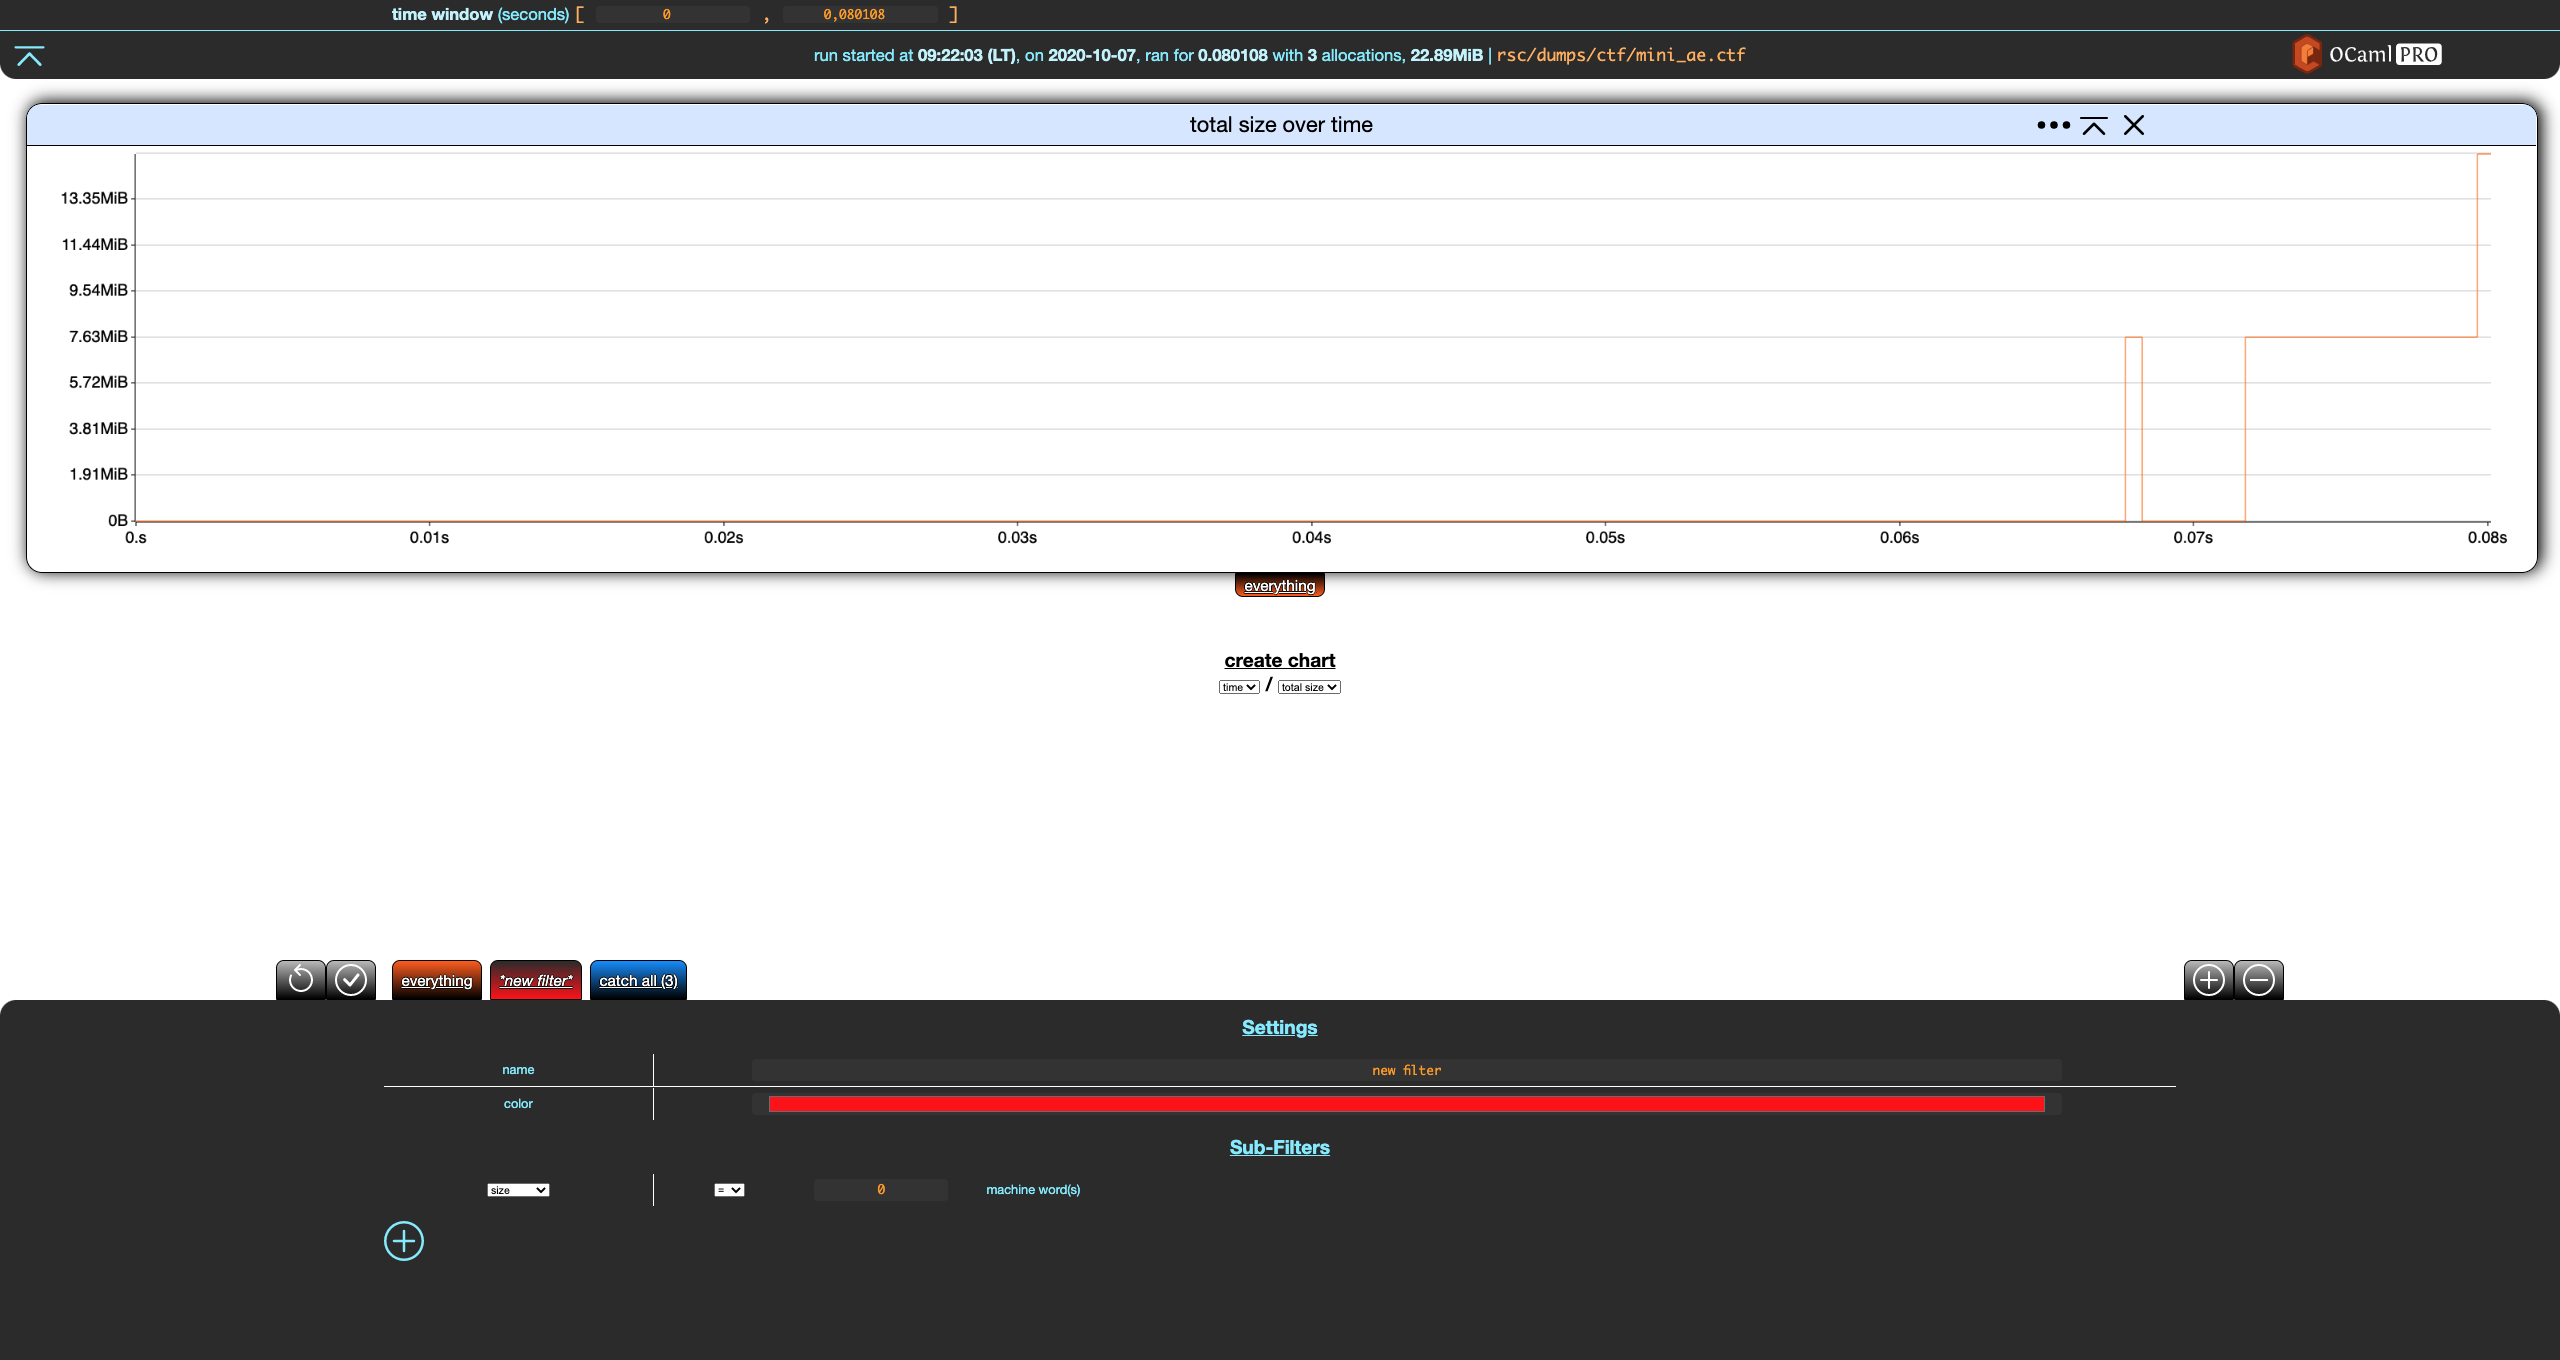
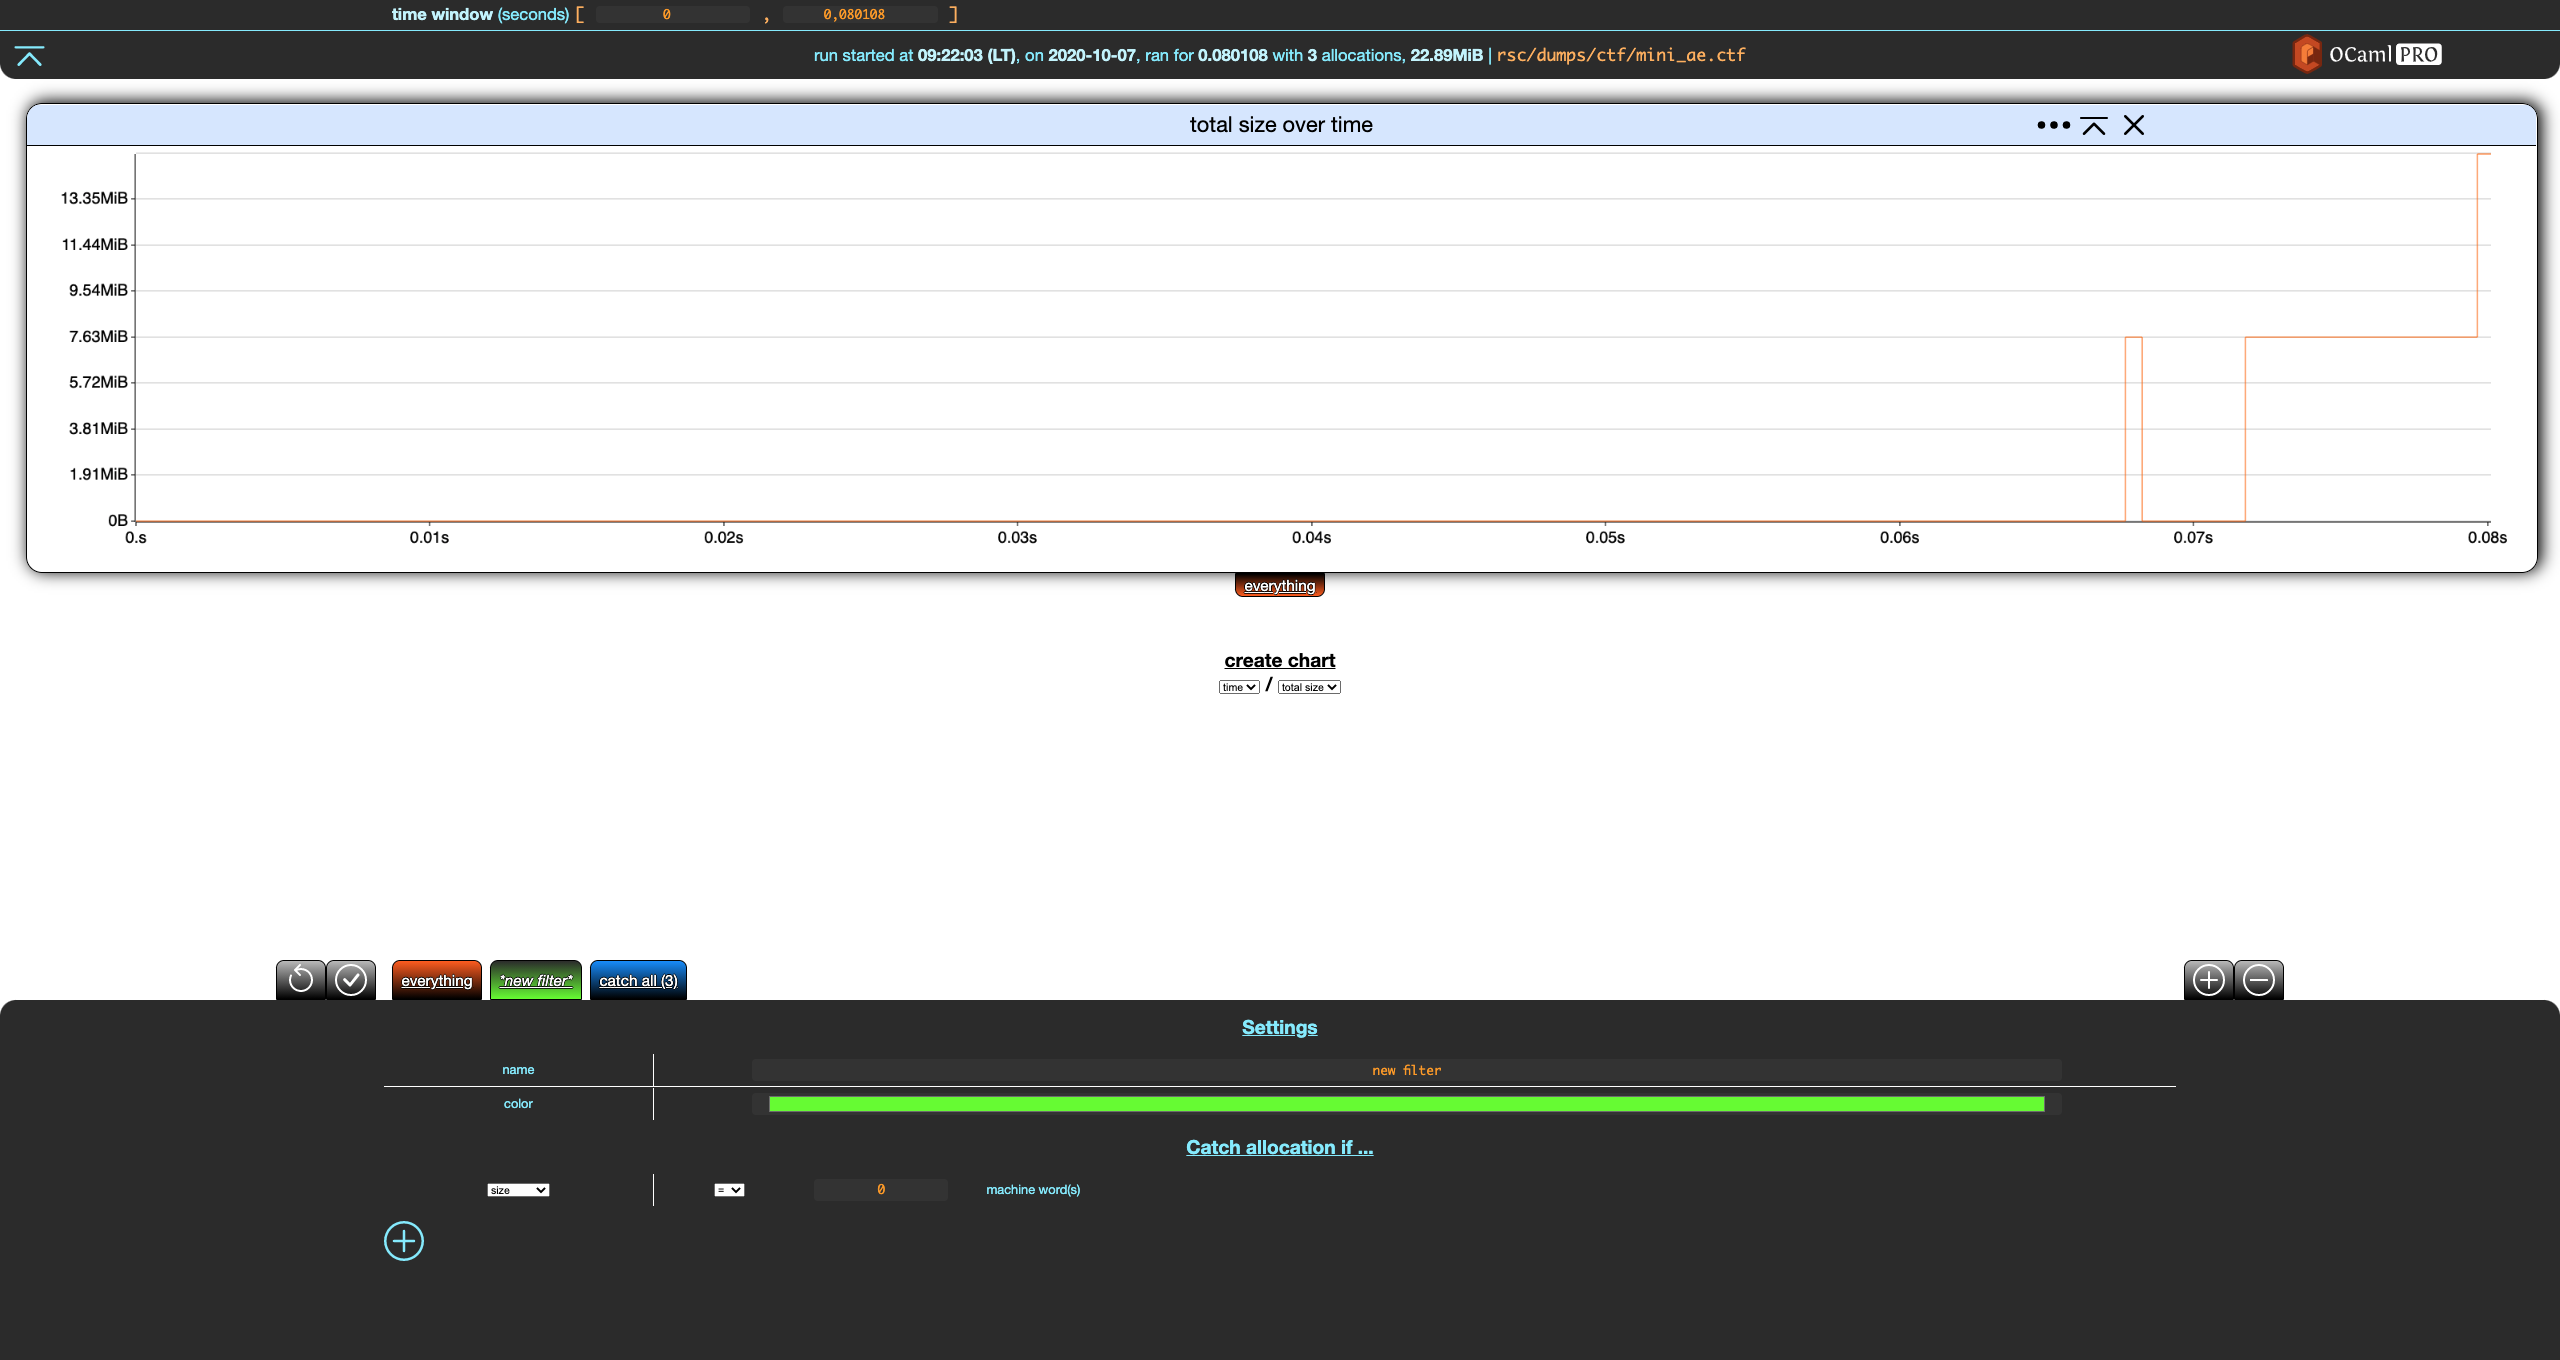
minimal tutorial

Changed region(s): [[0.2812, 0.8029, 0.8125, 0.8647], [0.1875, 0.7103, 0.25, 0.7412]]

diff --git a/rsc/docs/mini_tutorial/src/basics.md b/rsc/docs/mini_tutorial/src/basics.md
@@ -3,10 +3,7 @@
 Our running example in this section will be `rsc/dumps/mini_ae.ctf`:
 
 ```bash
-❯ ls rsc/dumps/ctf/mini_ae.ctf
-rsc/dumps/ctf/mini_ae.ctf
-
-❯ memthol rsc/dumps/ctf/mini_ae.ctf
+❯ memthol --filter_gen none rsc/dumps/ctf/mini_ae.ctf
 |===| Starting
 | url: http://localhost:7878
 | target: `rsc/dumps/ctf/mini_ae.ctf`
@@ -14,14 +11,23 @@ rsc/dumps/ctf/mini_ae.ctf
 
 ```
 
+Notice the odd `--filter_gen none` passed to memthol. Ignore it for now, it will be discussed [later
+in this section][filter gen].
+
 Once memthol is running, `http://localhost:7878/` (here) will lead you to memthol's BUI, which
 should look something like this:
 
 ![](basics_pics/default.png)
 
+\
+\
+
 Click on the orange **everything** tab at the bottom left of the screen.
 
 ![](basics_pics/three_parts.png)
+
+\
+\
 
 Memthol's interface is split in three parts:
 
@@ -44,74 +50,137 @@ in the footer.
 
 ![](basics_pics/everything_name_color.png)
 
+\
+\
+
 Notice that when a filter is modified, two buttons appear in the top-left part of the footer. The
 first reverts the changes while the second one saves them. Let's save these changes.
 
 ![](basics_pics/everything_saved.png)
 
+\
+\
+
 The **everything** filter always contains all allocations in the memory dump. It cannot be changed
 besides the cosmetic changes we just did. These changes are reverted in the rest of the section.
+
+
+## Custom Filters
 
 Let's create a new filter using the `+` add button in the top-right part of the footer.
 
 ![](basics_pics/new_filter.png)
 
-Notice that, unlike **everything**, the settings for our new filter have a `Sub-filter` (empty)
-section with a `+` add button. Let's click on that.
+\
+\
+
+Notice that, unlike **everything**, the settings for our new filter have a **Catch allocation if
+...** (empty) section with a `+` add button. Let's click on that.
 
 ![](basics_pics/new_sub_filter.png)
 
-The (only) graph shown here displays the sum of the sizes of the allocations (in bytes) over time.
+\
+\
+
+This adds a criterion to our filter. Let's modify it so that the our filter catches everything of size greater than zero machine words, rename the filter, and save these changes.
+
+![](basics_pics/new_filter_1.png)
+
+The tab for our filter now shows **(3)** next to its name, indicating that this filter catches 3
+allocations, which is all the allocations of the (tiny) dump.
 
 \
 \
 
-At the bottom is the so-called *filter footer*, which is collapsed by default. It only features one
-filter right now, the *everything* filter. Clicking on it expands its options and allows for some
-(cosmetic) customization.
+Now, create a new filter and modify it so that it catches allocations made in file `weak.ml`. This requires
 
-![](basics_pics/default_everything_expanded.png)
+- creating a filter,
 
-\
-\
+- adding a criterion to that filter,
 
-Notice the *add* button (that looks like a `+`) in the top-right corner of the footer. We will
-discuss it later. For now, let's change the name and color of this filter.
+- switching it from `size` to `callstack`
 
-![](basics_pics/default_everything_edited.png)
+- removing the trailing `**` (anything) by erasing it,
 
-> **NB:** the color palette is provided by the Operating System, the one shown here is provided by
-> macos. It will look different on other systems.
+- write `weak.ml` as the last file that should appear in the callstack.
 
-\
-\
+After saving it, you should get the following.
 
-Nothing changed in the graph, but two buttons have appeared in the top-right corner of the footer. A
-*save* button (floppy disk) and an *undo* button (arrow going backwards).
-
-Also, the *everything* tab changed to our new name, *"exhaustive"* surrounded by `*` characters.
-This indicates that the changes we made have not been applied. We can undo the changes in the filter
-footer with the undo button, or save/commit/apply them with the save button.
-
-Let's save these changes.
-
-![](basics_pics/default_everything_saved.png)
-
-
-The changes have now been applied to the graph and the *save* and *undo* buttons are gone. Note that
-currently you cannot undo changes once you have saved them. (Except by reloading the page and going
-back to the original layout and settings.)
+![](basics_pics/new_filter_2.png)
 
 \
 \
 
-Clicking on the (now) *exhaustive* tab again collapses the filter footer.
+Sadly, this filter does not match anything, although some allocations fit this filter. This is
+because a **custom filter** `F` "catches" an allocation if
 
-![](basics_pics/default_edited_collapsed.png)
+- all of the criteria of `F` are true for this allocation, and
+- the allocation is not caught by any **custom** filter at the left of `F` (note that the
+  **everything** filter is not a **custom filter).
+
+In other words, all allocations go through the list of custom filters from left to right, and are
+caught by the first filter such that all of its criteria are true for this allocation. As such, it
+is similar to switch/case and pattern matching.
 
 \
 \
 
-The *everything* (now called *exhaustive*) filter always contains all the allocations of the
-program's execution over time. More precisely, it contains all the allocations contained in the dump
-files. Next, let's build filters that partition these allocations.
+Let's move our new filter to the left by clicking the left arrow next to it, and save the change.
+
+![](basics_pics/new_filter_3.png)
+
+\
+\
+
+Nice.
+
+\
+\
+
+You can remove a filter by selecting it and clicking the `-` remove button in the top-right part of
+the footer, next to the `+` add filter button. This only works for **custom** filters, you cannot
+remove built-in filters.
+
+Now, remove the first filter we created (size ≥ 0), which should give you this:
+
+![](basics_pics/new_filter_4.png)
+
+\
+\
+
+Out of nowhere, we get the second and last built-in filter: **catch-all**. When some allocations are
+not caught by any of your filters, they will end up in this filter. **Catch-all** is not visible
+when it does not catch any allocation, which is why it was (mostly) not visible until now. The
+filter we wrote previously where catching all the allocations.
+
+> In the switch/case analogy, **catch-all** is the `else`/`default` branch. In pattern matching, it
+> would be a trailing wildcard `_`.
+
+So, `weak.ml` only catches one of the three allocations: **catch-all** appears and indicates it
+matches the remaining two.
+
+
+## Filter Generation
+
+When we launched this section's running example, we passed `--filter_gen none` to memthol. This is
+because, by default, memthol will run *automatic filter generation* which scans allocations and
+generates filters. The default (and currently only) one creates one filter per allocation-site file.
+
+> For more details, in particular filter generation customization, run `memthol --filter_gen help`.
+
+If we relaunch the example without `--filter_gen none`
+
+```bash
+❯ memthol rsc/dumps/ctf/mini_ae.ctf
+|===| Starting
+| url: http://localhost:7878
+| target: `rsc/dumps/ctf/mini_ae.ctf`
+|===|
+
+```
+
+we get something like this (actual colors may vary):
+
+![](basics_pics/filter_gen.png)
+
+[filter gen]: #filter-generation (Filter Generation Section)

diff --git a/rsc/docs/mini_tutorial/src/charts.md b/rsc/docs/mini_tutorial/src/charts.md
@@ -1,0 +1,91 @@
+# Charts
+
+This section uses the same running example as the last section.
+
+```bash
+❯ memthol rsc/dumps/ctf/mini_ae.ctf
+|===| Starting
+| url: http://localhost:7878
+| target: `rsc/dumps/ctf/mini_ae.ctf`
+|===|
+
+```
+
+## Filter Toggling
+
+The first way to interact with a chart is to (de)activate filters. Each chart has its own filter
+tabs allowing to toggle filters on/off.
+
+From the initial settings
+
+![](charts/init.png)
+
+click on all filters but **everything** to toggle them off.
+
+![](charts/only_everything.png)
+
+\
+\
+
+Let's create a new chart. The only kind of chart that can be constructed currently is total size
+over time, so click on **create chart** below our current, lone chart.
+
+![](charts/two_charts_1.png)
+
+\
+\
+
+Deactivate **everything** in the second chart.
+
+![](charts/two_charts_2.png)
+
+Nice. We now have the overall total size over time in the first chart, and the details for each
+filter in the second one.
+
+\
+\
+
+Next, notice that both charts have, on the left of their title, a down (first chart) and up (second
+chart) arrow. This moves the charts up and down.
+
+On the right of the title, we have a settings `...` buttons which is discussed
+[below](#chart-settings). The next button collapses the chart. If we click on the *collapse* button
+of the first chart, it collapses and the button turns into an *expand* button.
+
+![](charts/collapsed.png)
+
+\
+\
+
+The last button in the chart header removes the chart.
+
+
+## Chart Settings
+
+Clicking the settings `...` button in the header of any chart display its settings. (Clicking on the
+button again hides them.)
+
+![](charts/settings_1.png)
+
+Currently, these chart settings only allow to rename the chart and change its **display mode**.
+
+
+### Display Mode
+
+In memthol, a chart can be displayed in one of three ways:
+
+- normal, the one we used so far,
+
+- stacked area, where the values of each filter are displayed on top of each other, and
+
+- stacked area percent, same as stacked area but values are displayed as percents of the total.
+
+\
+\
+
+Here is the second chart from our example displayed as stacked area for instance:
+
+![](charts/settings_stacked.png)
+
+
+

diff --git a/rsc/docs/mini_tutorial/src/global_settings.md b/rsc/docs/mini_tutorial/src/global_settings.md
@@ -1,0 +1,47 @@
+# Global Settings
+
+This section uses the same running example as the last section.
+
+```bash
+❯ memthol rsc/dumps/ctf/mini_ae.ctf
+|===| Starting
+| url: http://localhost:7878
+| target: `rsc/dumps/ctf/mini_ae.ctf`
+|===|
+
+```
+
+\
+\
+
+There is currently only one global setting: the *time window*.
+
+## Time Window
+
+The *time window* global setting controls the time interval displayed by all the charts.
+
+In our example,
+
+![](global_settings/init.png)
+
+not much is happening before (roughly) `0.065` seconds. Let's have the time window start at that
+point:
+
+![](global_settings/time_window_1.png)
+
+\
+\
+
+Similar to filter edition, we can apply or cancel this change using the two buttons that appeared in
+the bottom-left corner of the header.
+
+Saving these changes yields
+
+![](global_settings/time_window_2.png)
+
+\
+\
+
+Here is the same chart but with the time window upper-bound set at `0.074`.
+
+![](global_settings/time_window_3.png)

diff --git a/rsc/docs/mini_tutorial/src/SUMMARY.md b/rsc/docs/mini_tutorial/src/SUMMARY.md
@@ -2,7 +2,9 @@
 
 - [Introduction](./intro.md)
 - [Basics](./basics.md)
-- [Filters](./filters.md)
+- [Charts](./charts.md)
+- [Global Settings](./global_settings.md)
+<!-- - [Filters](./filters.md)
 - [More Filters](./more_filters.md)
 - [Graphs](./graphs.md)
-- [Current and Future Features](./features.md)
+- [Current and Future Features](./features.md) -->
